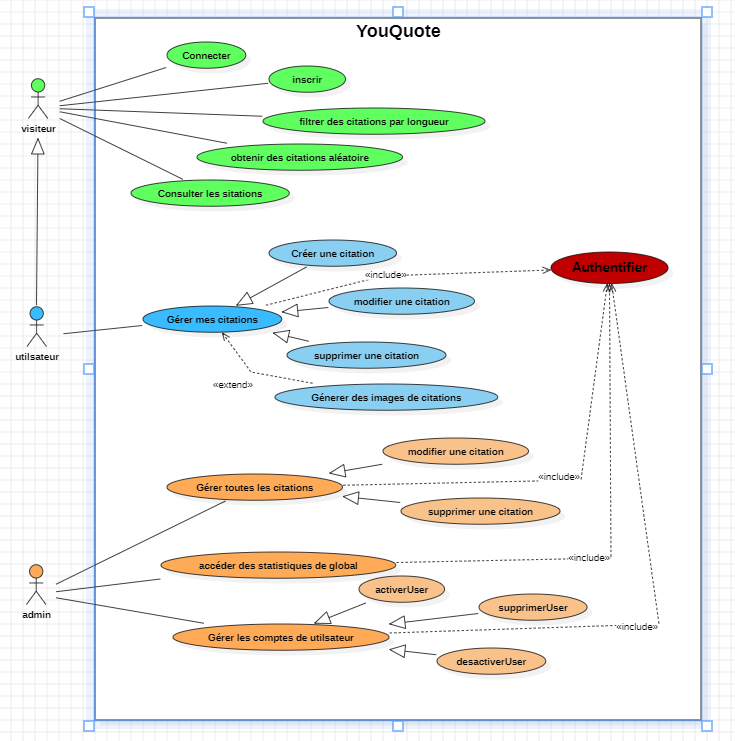
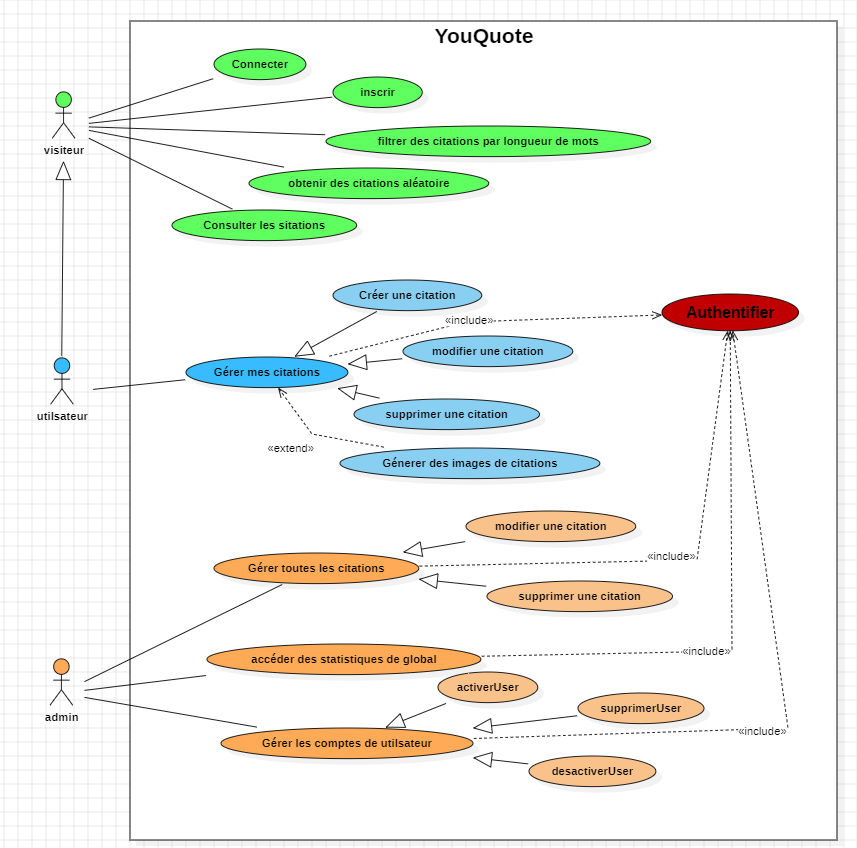
Renommage de certaines fonctions et modification du diagramme de classe

Changed region(s): [[0.0299, 0.0, 0.9878, 0.9933], [0.8082, 0.5587, 0.868, 0.6208], [0.868, 0.6518, 0.898, 0.6829]]

diff --git a/app/Http/Controllers/QuoteController.php b/app/Http/Controllers/QuoteController.php
@@ -44,20 +44,21 @@ class QuoteController extends Controller
     }
 
     
-    public function show(string $id)
+    public function show(Request $request)
     {
-        //return response()->json('show');
-        $user_id=auth()->user()->id;
-        $quote=Quote::where('user_id',$user_id)->get();
-        if($quote){
-            return new QuoteResource($quote);
+        $quotes=$request->user()->quotes()->get();
+        if($quotes){
+            return new QuoteResource($quotes);
         }
         return response()->json(['message'=>'Quote not found'],404);
     }
 
     public function showQuote($id){
         $quote=Quote::where('id',$id)->first();
-        $quote->increment('nombre_vues');
+        if($quote){
+           $quote->increment('nombre_vues'); 
+        }else{}
+        
         return response()->json(['Quote'=>$quote]);
     }
 
@@ -102,7 +103,7 @@ class QuoteController extends Controller
         $quotes=$request->user()->quotes->where('id',$id)->first();
 
         if(!$quotes){
-            return response()->json(['cette quotes n existe pas'],401);
+            return response()->json(['cette quotes n existe pas ou bien c est pas de toi'],401);
         }
         $quotes->delete();
         return response()->json(['message'=>"quote a été supprimé"],200);
@@ -118,11 +119,11 @@ class QuoteController extends Controller
 
     public function fliterQuotesNombreMot($max_mots){
         //return response()->json('testFilter');
-        $quotes = Quote::where('nombre_mots','<',$max_mots)->get();
+        $quotes = Quote::where('nombre_mots','<=',$max_mots)->get();
         return response()->json(['Quotes'=>$quotes]);
     }
 
-    public function getQuotePlusPopulaire(){
+    public function getQuotesPlusPopulaire(){
         $quotes=Quote::orderBy('nombre_vues','desc')->limit(3)->get();
         return response()->json(["quotes"=>$quotes],200);
     }

diff --git a/app/Http/Controllers/UserController.php b/app/Http/Controllers/UserController.php
@@ -44,17 +44,12 @@ class UserController extends Controller
             return response()->json($validator->errors(),400);
         }
 
-        if(Auth::attempt($request->only('email','password'))){
-            $user=Auth::user();
-            $token = $user->createToken('auth_token')->plainTextToken;
-            return response()->json(['token' => $token, 'user' => $user], 200);
-        }else{
+        if(!Auth::attempt($request->only('email','password'))){
             return response()->json(['message'=>'email ou password incorrect'],401);
         }
-
-        $user=$request->user();
-        $token = $user->createToken('auth_token')->plainTextToken;
-        return response()->json(['token' => $token, 'user' => $user], 200);
+        $user=Auth::user();
+            $token = $user->createToken('auth_token')->plainTextToken;
+            return response()->json(['token' => $token, 'user' => $user], 200);
     }
 
     public function logout(Request $request){

diff --git a/routes/api.php b/routes/api.php
@@ -24,7 +24,8 @@ Route::post('/login',[UserController::class,'login']);
 Route::get('/showQuote/{id}',[QuoteController::class,'showquote']);
 Route::get('/randomQuote/{NombreQuotes}',[QuoteController::class,'randomQuote']);
 Route::get('fliterQuotesNombreMot/{Nombre_max_mots}',[QuoteController::class,'fliterQuotesNombreMot']);
-Route::get('getQuotePlusPopulaire',[QuoteController::class,'getQuotePlusPopulaire']);
+Route::get('getQuotesPlusPopulaire',[QuoteController::class,'getQuotesPlusPopulaire']);
+
 
 
 // Route::get('/test',function(){
